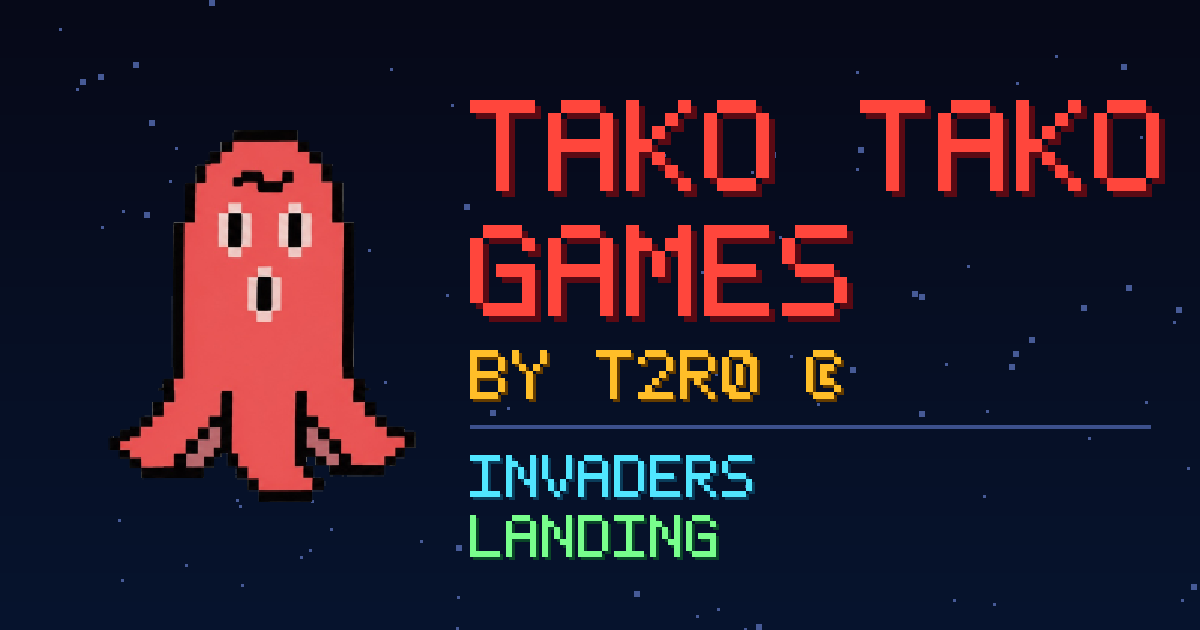
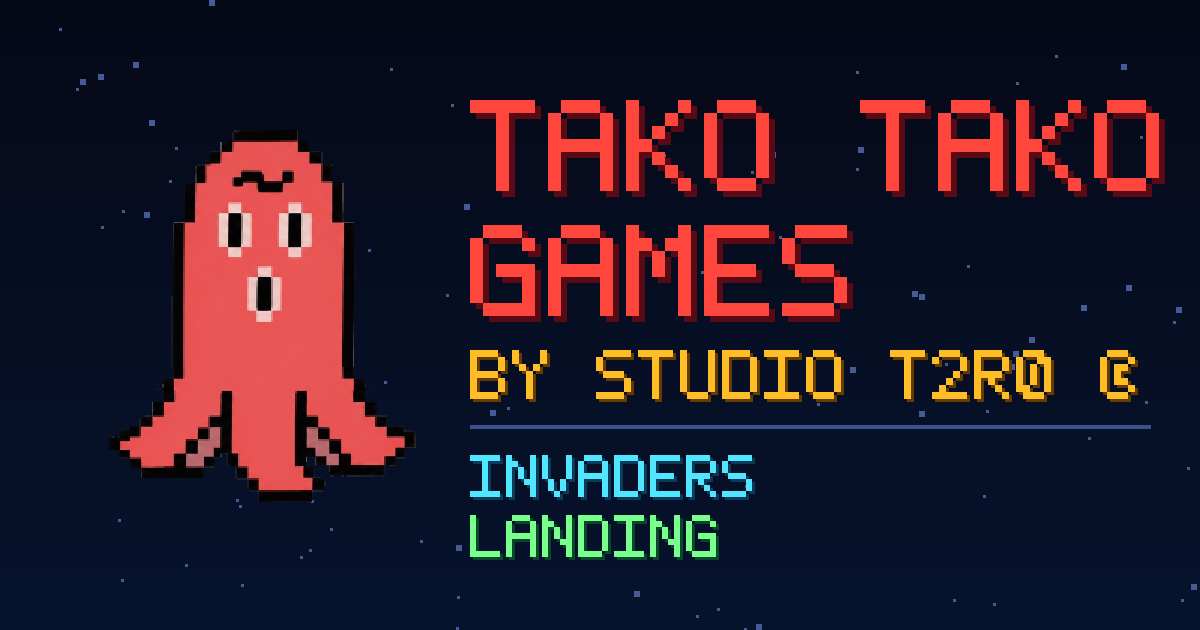
Add files via upload

Changed region(s): [[0.4933, 0.5429, 0.7092, 0.6635], [0.74, 0.5429, 0.9558, 0.6635]]

diff --git a/index.html b/index.html
@@ -4,13 +4,13 @@
 <meta charset="utf-8">
 <meta name="viewport" content="width=device-width, initial-scale=1">
 <meta property="og:type" content="website">
-<meta property="og:title" content="TAKO TAKO GAMES by T2R0 ©">
+<meta property="og:title" content="TAKO TAKO GAMES by Studio T2R0 ©">
 <meta property="og:description" content="自作のタコキャラクターによるゲーム / Games starring my original octopus character">
 <meta property="og:url" content="https://t2r0221.github.io/Tako-Games/">
 <meta property="og:image" content="https://t2r0221.github.io/Tako-Games/ogp.png">
 <meta name="twitter:card" content="summary_large_image">
 <meta name="twitter:image" content="https://t2r0221.github.io/Tako-Games/ogp.png">
-<title>TAKO TAKO GAMES by T2R0 ©</title>
+<title>TAKO TAKO GAMES by Studio T2R0 ©</title>
 <style>
   :root{ --cyan:#26ffe6; --pink:#ff2e88; --amber:#ffb703; --red:#e05a5a; }
   *{ box-sizing:border-box; }
@@ -55,7 +55,7 @@
 <body>
 <header>
   <h1>TAKO TAKO<br>GAMES</h1>
-  <div class="by">by T2R0 ©</div>
+  <div class="by">by Studio T2R0 ©</div>
   <p class="lead" style="margin-left:auto;margin-right:auto">スマホでもパソコンでも遊べます / Play on phone or computer</p>
 </header>
 

diff --git a/tako_landing.html b/tako_landing.html
@@ -164,7 +164,7 @@
   <div id="title-screen">
     <div class="top">
       <h1>TAKO TAKO<br>LANDING</h1>
-      <div class="by">by T2R0 ©</div>
+      <div class="by">by Studio T2R0 ©</div>
     <div class="desc">
       <p class="jp">家がある海底まで降りたいけど　魚に食べられちゃう！！<br>左右と上に動けるよ　下に行く時は脱力で<br>制限時間内に海底につけるかな！</p>
       <p class="en">You want to get down to the seabed where your home is, but the fish will eat you!!<br>You can move left, right and up. To go down, just relax!<br>Can you reach the seabed before time runs out?</p>

diff --git a/tako_invaders.html b/tako_invaders.html
@@ -160,7 +160,7 @@
   <div id="title-screen">
     <div class="top">
       <h1>TAKO TAKO<br>INVADERS</h1>
-      <div class="by">by T2R0 ©</div>
+      <div class="by">by Studio T2R0 ©</div>
     </div>
     <div class="bottom">
     <div class="desc">
